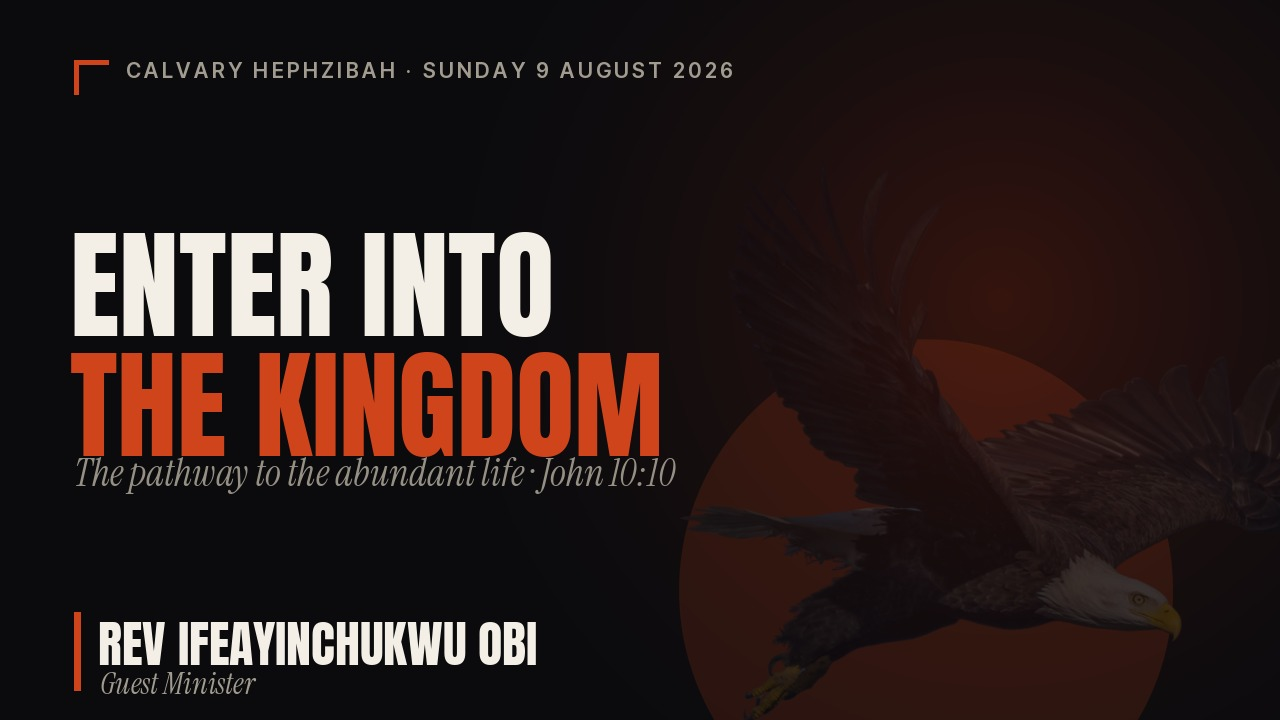
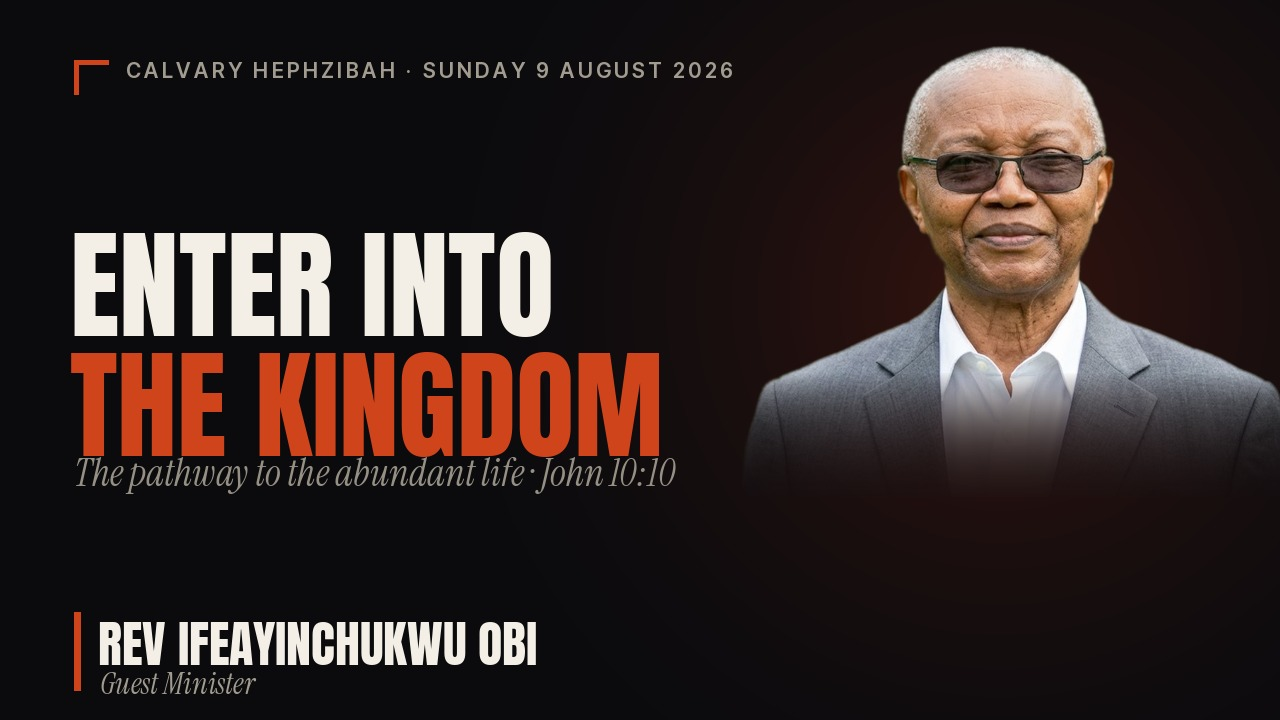
09 Aug 2026: Add Rev Obi portrait to the sermon thumbnail

Changed region(s): [[0.5312, 0.0611, 1.0, 1.0]]

diff --git a/media-briefing-09-aug-2026.html b/media-briefing-09-aug-2026.html
@@ -10,7 +10,7 @@
     <meta property="og:site_name" content="Calvary Hephzibah Full Gospel Church">
     <meta property="og:title" content="Run Sheet &middot; Sunday 9th August 2026">
     <meta property="og:description" content="Enter Into The Kingdom &middot; Rev Ifeayinchukwu Obi. Order of service, 9-song worship set, Matthew 13:44-45 &amp; John 10:10, and the media checklist.">
-    <meta property="og:image" content="https://calvaryhfgc.github.io/calvaryhephzibah/sermon-thumbnail-09-aug-2026.jpg?v=1">
+    <meta property="og:image" content="https://calvaryhfgc.github.io/calvaryhephzibah/sermon-thumbnail-09-aug-2026.jpg?v=2">
     <meta property="og:image:width" content="1280">
     <meta property="og:image:height" content="720">
     <meta property="og:image:alt" content="Enter Into The Kingdom &middot; Rev Ifeayinchukwu Obi, Sunday 9 August 2026">
@@ -18,7 +18,7 @@
     <meta name="twitter:card" content="summary_large_image">
     <meta name="twitter:title" content="Run Sheet &middot; Sunday 9th August 2026">
     <meta name="twitter:description" content="Enter Into The Kingdom &middot; Rev Ifeayinchukwu Obi. Everything the media team needs before service.">
-    <meta name="twitter:image" content="https://calvaryhfgc.github.io/calvaryhephzibah/sermon-thumbnail-09-aug-2026.jpg?v=1">
+    <meta name="twitter:image" content="https://calvaryhfgc.github.io/calvaryhephzibah/sermon-thumbnail-09-aug-2026.jpg?v=2">
     <link rel="preconnect" href="https://fonts.googleapis.com">
     <link rel="preconnect" href="https://fonts.gstatic.com" crossorigin>
     <link href="https://fonts.googleapis.com/css2?family=Cormorant+Garamond:wght@600;700&family=DM+Sans:wght@400;500;600;700&display=swap" rel="stylesheet">
@@ -255,7 +255,7 @@
             <div class="serm-preacher">Rev Ifeayinchukwu Obi · Guest Minister</div>
             <h3 class="serm-title">Enter Into The Kingdom</h3>
             <div style="font-size:13px;color:rgba(255,255,255,0.6);margin-bottom:14px;">The Pathway to the Abundant Life · Matthew 13:44–45 · John 10:10</div>
-            <img src="https://calvaryhfgc.github.io/calvaryhephzibah/sermon-thumbnail-09-aug-2026.jpg?v=1" alt="Rev Ifeayinchukwu Obi — Enter Into The Kingdom" class="serm-thumb">
+            <img src="https://calvaryhfgc.github.io/calvaryhephzibah/sermon-thumbnail-09-aug-2026.jpg?v=2" alt="Rev Ifeayinchukwu Obi — Enter Into The Kingdom" class="serm-thumb">
             <div class="serm-note"><span>💡</span><span>Display sermon thumbnail for 30 seconds as Rev Ifeayinchukwu Obi comes up to preach.</span></div>
         </div>
     </div>
